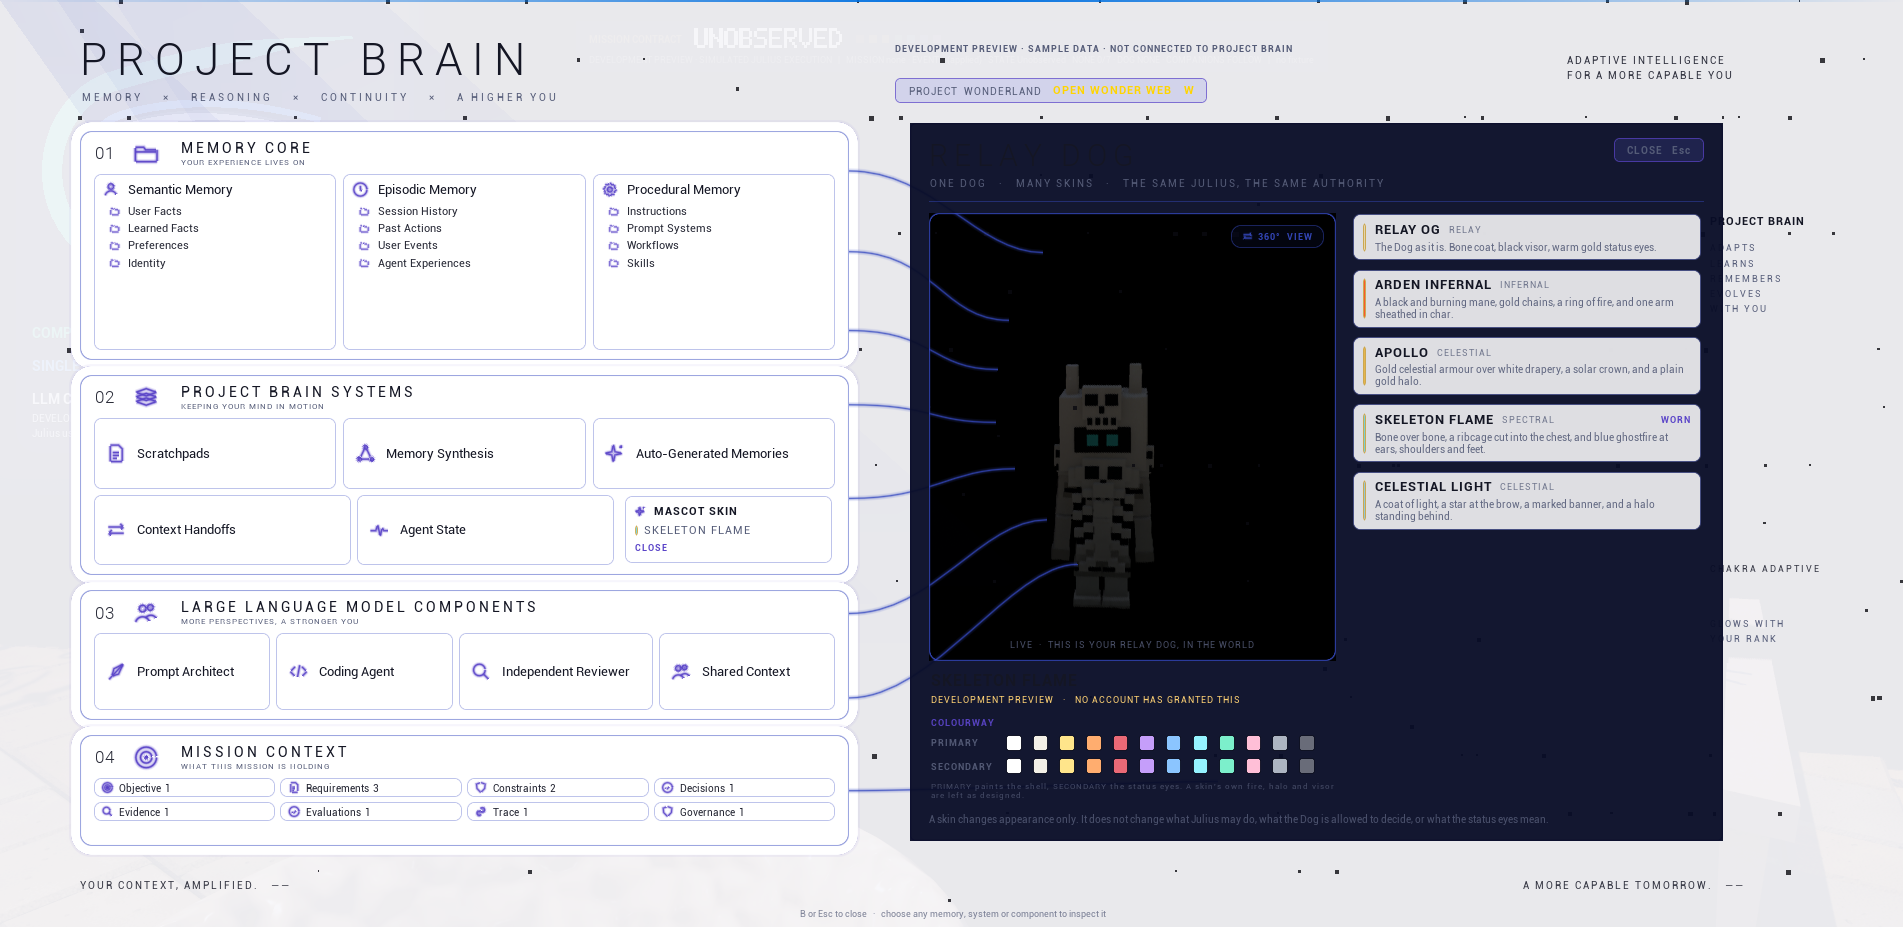
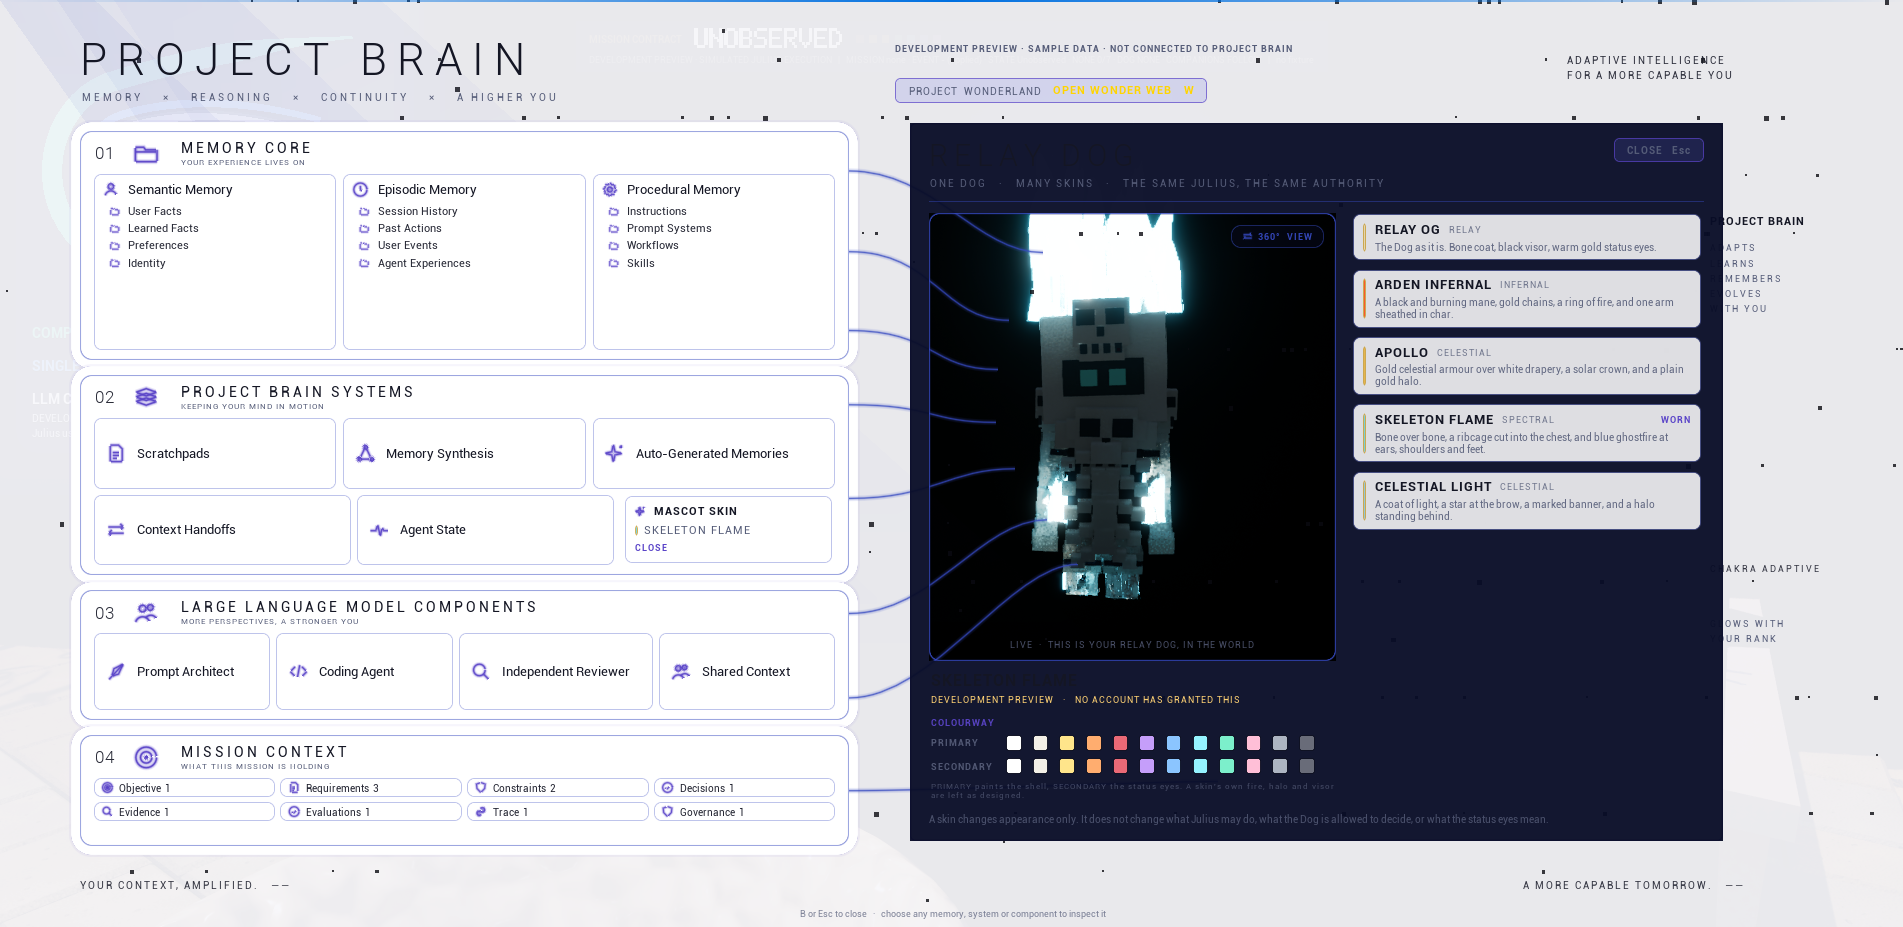
Wardrobe framing derives from the body, and the state that made it recur is deleted
FOUNDER, with video: "Wardrobe framing MUST derive from the physical mascot BODY,
not total actor bounds ... Those effects can still render. They simply must NOT
determine camera distance." And: "Treat recurrence itself as evidence that the old
solution was structurally insufficient."

Both mechanisms that produced the tiny mascot were added here by me while trying
to fix it, which is why it kept coming back.

AGGREGATE BOUNDS. The solve used GetComponentsBoundingBox, which counts every
primitive the figure owns -- so Celestial Light's halo, Apollo's crown and Arden's
fire were all voting on the camera distance, and an animated flame votes
differently every frame.

A DECAYING PEAK. To stop a pulsing flame clipping I made the solve remember the
largest the figure had recently been, decaying 0.6% a tick. That is a memory: one
big frame backed the camera off and it STAYED off for many seconds, across skin
switches and reopenings. A framing that remembers is a framing that drifts. The
members are deleted rather than disabled, so it cannot come back.

AWonderlandCompanionEmbodiment::GetFramingBodyBounds is the framing contract now:
the union of the Lit and Rim meshes only -- shell, plate, bone, cloth -- and
nothing that glows. PartMeshIsBody records the split at build time. It is
stateless, so the same skin in the same pose gives the same box every time
whatever the fire is doing.

Measured on the preview square, fraction of it that is nearly black, front view:
[…]

Changed region(s): [[0.5271, 0.2114, 0.6511, 0.6645]]

diff --git a/wonderland/Source/Wonderland/WonderlandUiSubsystem.cpp b/wonderland/Source/Wonderland/WonderlandUiSubsystem.cpp
@@ -1444,69 +1444,42 @@ void UWonderlandUiSubsystem::FrameRelayDogInWardrobe(bool bOn)
 				// So the fit reads the rendered bounds and divides out the scale they were rendered at. That is
 				// a fixed point -- the scale cancels -- and it re-solves every 0.08 s, so a skin that has only
 				// half loaded is corrected on the next tick instead of being framed for good.
+				// ---- FRAMED ON THE BODY, WITH THE EFFECTS LEFT OUT OF THE VOTE.
+				//
+				// FOUNDER, with video of a tiny mascot adrift in black: "Wardrobe framing MUST derive from
+				// the physical mascot BODY, not total actor bounds ... Those effects can still render. They
+				// simply must NOT determine camera distance." That names the fault precisely, and the two
+				// mechanisms that produced it were both added here in the course of trying to fix it:
+				//
+				// AGGREGATE BOUNDS. GetComponentsBoundingBox counts every primitive the figure owns, so
+				// Celestial Light's halo, Apollo's crown and Arden's fire were all voting on the camera
+				// distance -- and an animated flame votes differently every frame.
+				//
+				// A DECAYING PEAK. To stop a pulsing flame clipping, the solve tracked the largest the figure
+				// had been recently and decayed it 0.6% per tick. That is a memory: one big frame backed the
+				// camera off and it STAYED off for many seconds, across skin switches and reopenings. A
+				// framing that remembers is a framing that drifts, and drift is exactly the recurrence the
+				// founder has now reported three times. Both are gone.
+				//
+				// GetFramingBodyBounds returns the union of the Lit and Rim meshes only -- the shell, the
+				// plate, the bone, the cloth -- and nothing that glows. It is stateless: the same skin in the
+				// same pose gives the same box every time, whatever the fire happened to be doing.
 				const FVector Applied = Shown->GetActorScale3D();
 				const float Uniform = FMath::Max(FMath::Abs(static_cast<float>(Applied.Z)), 0.001f);
-				const FBox Drawn = Shown->GetComponentsBoundingBox(true);
+				const FBox Drawn = Shown->GetFramingBodyBounds();
 				if (Drawn.IsValid && Drawn.GetExtent().Z > 1.0)
 				{
 					bFramedOnDrawnBounds = true;
 					const FVector Half = Drawn.GetExtent() / Uniform;
 					Height = FMath::Max(static_cast<float>(Half.Z) * 2.0f, 60.0f);
 					FigureWide = FMath::Max(static_cast<float>(Half.X), static_cast<float>(Half.Y)) * 2.0f;
-
-					// ---- AND THE ENVELOPE IS TAKEN AS A FLOOR, NOT DISCARDED.
-					//
-					// Choosing between these two measures was the mistake, and both choices were wrong in the
-					// same way: each is blind to something the other sees. The declared envelope adds a reach
-					// factor to every glow group and OVER-counts a flame, which framed Arden Infernal at 0.59
-					// of a window it had been solved to fill. The drawn bounds UNDER-count one, because the
-					// fire is displaced outward by its material at render time and a component's bounding box
-					// knows nothing about world-position offset -- so Arden was then solved to 0.88 and drew
-					// past every edge, with the window's top-left corner reading 0.98 white.
-					//
-					// Instrumented rather than guessed, which is how this was finally pinned: the solve says
-					// Arden's drawn height is 379.8 against a declared 473, and the arithmetic on the drawn
-					// figure is exactly right -- 0.88 of the window -- for a figure 20% smaller than the one
-					// that actually renders.
-					//
-					// A floor keeps both guarantees at once. Where the envelope is the larger, the flame it
-					// was invented to predict is inside the frame by construction. Where the drawn figure is
-					// larger -- a half-loaded skin, or one whose envelope is honest -- the measured size wins
-					// and nothing is framed small. For a skin with no glow group at all the two agree and
-					// this changes nothing, which is why Relay OG never showed the bug.
+					FigureMiddle = static_cast<float>(Drawn.GetCenter().Z - Shown->GetActorLocation().Z) / Uniform;
 					EnvelopeTall = Shown->GetFigureHeightUu();
 					EnvelopeSeen = Shown->GetFigureWidthUu();
-
-					// ---- THE PEAK THE FIGURE HAS ACTUALLY REACHED, bounded by what it is allowed to reach.
-					//
-					// Framing on the envelope alone was the first fix and it over-corrected: Arden Infernal
-					// stopped running past the window and started filling 0.61 of it. The envelope is a
-					// worst case -- Tall * 1.45 on every glow group -- and a flame does not sit at its worst
-					// case, it pulses between 0.58 and 1.20 of nominal every couple of seconds. So the frame
-					// is solved against the largest this figure has genuinely been recently, which is tighter
-					// than the allowance and still safe, because the peak has already been seen.
-					//
-					// The decay is what makes it a PEAK rather than a high-water mark for the session: a few
-					// per cent a second, so changing to a smaller skin re-tightens within a breath instead of
-					// leaving the window framed for the skin before it.
-					Self->WardrobePeakHeight = FMath::Max(Self->WardrobePeakHeight * 0.994f, Height);
-					Self->WardrobePeakWide = FMath::Max(Self->WardrobePeakWide * 0.994f, FigureWide);
-					Height = FMath::Min(Self->WardrobePeakHeight,
-						EnvelopeTall > 60.0f ? EnvelopeTall : Self->WardrobePeakHeight);
-					FigureWide = FMath::Min(Self->WardrobePeakWide,
-						EnvelopeSeen > 1.0f ? EnvelopeSeen : Self->WardrobePeakWide);
-					FigureMiddle = static_cast<float>(Drawn.GetCenter().Z - Shown->GetActorLocation().Z) / Uniform;
-					// AND SIDEWAYS, WHICH WAS BEING THROWN AWAY. The same subtraction, on the two axes the
-					// framing never corrected: see UWonderlandUiSubsystem::WardrobeDrift.
-					const FVector Sideways = (Drawn.GetCenter() - Shown->GetActorLocation()) / Uniform;
-					Self->WardrobeDrift = FMath::Lerp(
-						Self->WardrobeDrift,
-						FVector2D(static_cast<float>(Sideways.X), static_cast<float>(Sideways.Y)),
-						0.15f);
 				}
 				else
 				{
-					// Nothing drawn yet: the declared envelope, which is at least the right order of size.
+					// Nothing built yet: the declared envelope, which is at least the right order of size.
 					const float Standing = Shown->GetFigureHeightUu();
 					if (Standing > 60.0f)
 					{

diff --git a/wonderland/Source/Wonderland/WonderlandCompanionEmbodiment.cpp b/wonderland/Source/Wonderland/WonderlandCompanionEmbodiment.cpp
@@ -408,6 +408,7 @@ void AWonderlandCompanionEmbodiment::ClearBody()
 	PartMeshes.Reset();
 	PartPivots.Reset();
 	PartNames.Reset();
+	PartMeshIsBody.Reset();
 	MaterialInstances.Reset();
 	FlameMaterialInstances.Reset();
 	FlameRestColours.Reset();
@@ -781,6 +782,10 @@ bool AWonderlandCompanionEmbodiment::LoadFigure(const FString& FilePath)
 		Mesh->AddInstances(Group.Value, false, false, false);
 		Mesh->RegisterComponent();
 		PartMeshes.Add(Mesh);
+		// THE SHELL AND THE LIGHT ARE RECORDED APART, so the wardrobe can frame on one and not the other.
+		// See GetFramingBodyBounds.
+		PartMeshIsBody.Add(Kind == EWonderlandCompanionMaterialKind::Lit
+			|| Kind == EWonderlandCompanionMaterialKind::Rim);
 		BoxCount += Group.Value.Num();
 	}
 
@@ -1073,6 +1078,25 @@ FString AWonderlandCompanionEmbodiment::DescribeFlames() const
 	return Out;
 }
 
+FBox AWonderlandCompanionEmbodiment::GetFramingBodyBounds() const
+{
+	FBox Body(ForceInit);
+	for (int32 Index = 0; Index < PartMeshes.Num(); ++Index)
+	{
+		if (!PartMeshIsBody.IsValidIndex(Index) || !PartMeshIsBody[Index])
+		{
+			continue;
+		}
+		const UInstancedStaticMeshComponent* Mesh = PartMeshes[Index].Get();
+		if (Mesh == nullptr || Mesh->GetInstanceCount() <= 0)
+		{
+			continue;
+		}
+		Body += Mesh->Bounds.GetBox();
+	}
+	return Body;
+}
+
 void AWonderlandCompanionEmbodiment::SetShowcaseLit(bool bShowcase)
 {
 	// Channel 1 alone for a showcase; channel 0 alone for a body that lives in the world. Applied to every
@@ -1234,11 +1258,33 @@ void AWonderlandCompanionEmbodiment::ApplyColourway(int32 MaterialIndex, UMateri
 	}
 	if (bChosen)
 	{
-		switch (Channel)
+		if (BodyRole == EWonderlandBodyRole::Companion)
 		{
-		case EWonderlandColorChannel::Body: Want *= Primary;   break;
-		case EWonderlandColorChannel::Eye:  Want *= Secondary; break;
-		case EWonderlandColorChannel::None: default:                     break;
+			// ---- A COMPANION IS ROUTED BY WHAT A SURFACE IS, NOT BY WHAT IT IS CALLED.
+			//
+			// FOUNDER: "PRIMARY controls the AI Companion's SOLID WHITE BODY PARTS ... SECONDARY controls the
+			// AI Companion's GLOW / ENERGY portions ... These channels MUST be genuinely independent."
+			//
+			// The mascot's channels are decided by material NAME, because a Relay Dog skin's authored art has
+			// to be protected piece by piece -- bone and bonedeep may be recoloured, a visor and a banner may
+			// not. A companion is a different object and the founder has asked for a different split: the
+			// shell against the light. That is the material's KIND, which is exactly the distinction already
+			// drawn everywhere else in this function -- Lit and Rim are the body, Glow and Additive are the
+			// energy -- so routing on it is both what was asked for and genuinely independent by construction.
+			//
+			// Neither multiply changes intensity. Primary tints a lit surface and cannot make it emissive;
+			// Secondary tints an emissive one and cannot make the companion brighter. "Colour customization
+			// must change COLOR, not flatten the materials."
+			Want *= bGlows ? Secondary : Primary;
+		}
+		else
+		{
+			switch (Channel)
+			{
+			case EWonderlandColorChannel::Body: Want *= Primary;   break;
+			case EWonderlandColorChannel::Eye:  Want *= Secondary; break;
+			case EWonderlandColorChannel::None: default:                     break;
+			}
 		}
 	}
 

diff --git a/wonderland/Source/Wonderland/WonderlandCompanionEmbodiment.h b/wonderland/Source/Wonderland/WonderlandCompanionEmbodiment.h
@@ -181,6 +181,24 @@ public:
 	 */
 	void SetShowcaseLit(bool bShowcase);
 
+	/**
+	 * THE BOX AROUND THE PHYSICAL MASCOT, WITH ITS EFFECTS LEFT OUT. In world space; invalid if nothing is built.
+	 *
+	 * FOUNDER, 2026-09-26, with video of the wardrobe showing a tiny mascot adrift in black: "Wardrobe framing
+	 * MUST derive from the physical mascot BODY, not total actor bounds ... Explicitly exclude from framing
+	 * calculations: halo, flames, particles, glow cards ... Those effects can still render. They simply must
+	 * NOT determine camera distance."
+	 *
+	 * That is exactly the fault. Framing solved on the AGGREGATE bounds, so Celestial Light's halo, Apollo's
+	 * crown and Arden's fire were all voting on how far away the camera stood -- and a flame that animates
+	 * outward votes differently every frame. The camera backed off to fit the biggest thing the figure had
+	 * recently thrown, and what was left in the middle was a small dog.
+	 *
+	 * This is the framing contract: only Lit and Rim meshes, which is the shell and nothing else.
+	 */
+	UFUNCTION(BlueprintCallable, Category = "Wonderland|Test")
+	FBox GetFramingBodyBounds() const;
+
 	float GetGlowScale() const { return GlowScale; }
 
 	/** Follow whatever pawn this controller is wearing, now and after it changes. */
@@ -510,6 +528,14 @@ private:
 
 	UPROPERTY(Transient)
 	TArray<TObjectPtr<UInstancedStaticMeshComponent>> PartMeshes;
+
+	/**
+	 * WHICH OF THOSE MESHES ARE THE FIGURE'S BODY, as opposed to its light. See GetFramingBodyBounds.
+	 *
+	 * Parallel to PartMeshes: true for a mesh built from a Lit or Rim material -- bone, cloth, plate, chain --
+	 * and false for one built from a Glow or Additive material -- a halo, a banner, ghostfire, an ember.
+	 */
+	TArray<bool> PartMeshIsBody;
 
 	UPROPERTY(Transient)
 	TArray<TObjectPtr<UMaterialInstanceDynamic>> MaterialInstances;

diff --git a/wonderland/Source/Wonderland/WonderlandUiSubsystem.h b/wonderland/Source/Wonderland/WonderlandUiSubsystem.h
@@ -999,22 +999,10 @@ private:
 	 */
 	FVector2D WardrobeDrift = FVector2D::ZeroVector;
 
-	/**
-	 * THE LARGEST THE STAGED FIGURE HAS ACTUALLY BEEN LATELY, so an animated flame is framed by its own peak.
-	 *
-	 * Neither available measure is right on its own. The drawn bounds miss a fire displaced by its material
-	 * and let Arden Infernal run past the window; the declared envelope adds a worst-case reach factor to
-	 * every glow group and framed the same skin at 0.61 of the square when the founder asked for 0.80-0.90.
-	 * Both are honest about different instants -- the flame really does pulse between 0.58 and 1.20 of its
-	 * nominal height every couple of seconds.
-	 *
-	 * So the frame is solved against the biggest the figure has been in the last few seconds: tighter than the
-	 * envelope, because it is a reach the flame actually achieved rather than one it is allowed; and safe
-	 * against clipping, because it has already seen the peak. It decays slowly so that changing to a smaller
-	 * skin does not leave the window framed for the previous one.
-	 */
-	float WardrobePeakHeight = 0.0f;
-	float WardrobePeakWide = 0.0f;
+	// The decaying peak that used to live here is deleted, not disabled. It remembered the largest the figure
+	// had recently been so a pulsing flame could not clip, and a framing that remembers is a framing that
+	// drifts: one big frame backed the camera off and it stayed off across skin switches and reopenings.
+	// Framing is stateless now -- see AWonderlandCompanionEmbodiment::GetFramingBodyBounds.
 
 	/**
 	 * THE LAST WARDROBE FRAMING SOLVE, IN WORDS, so a proof can read the arithmetic instead of guessing at it.
